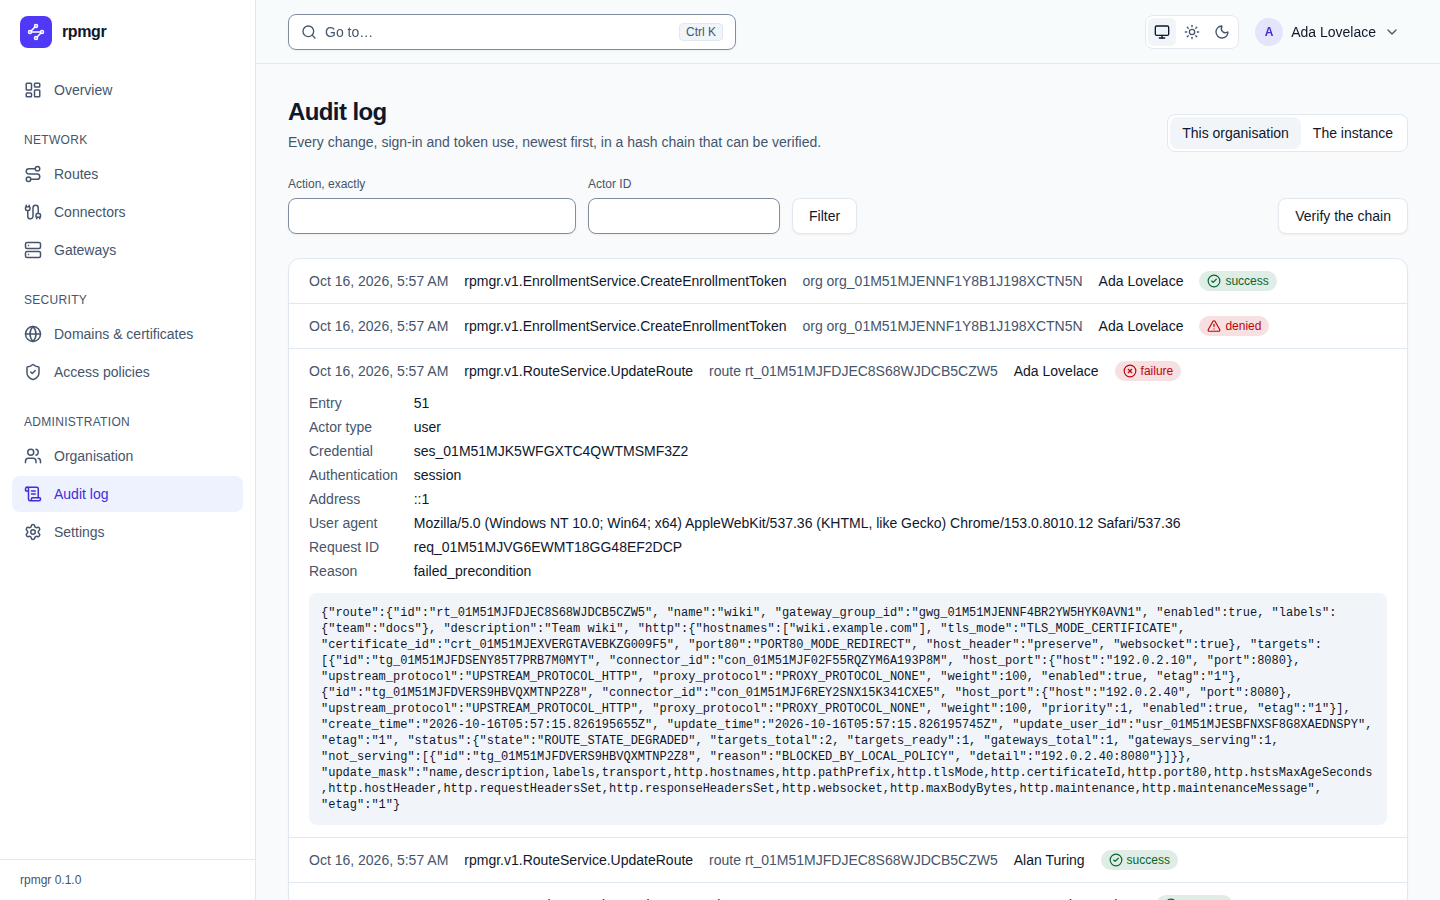
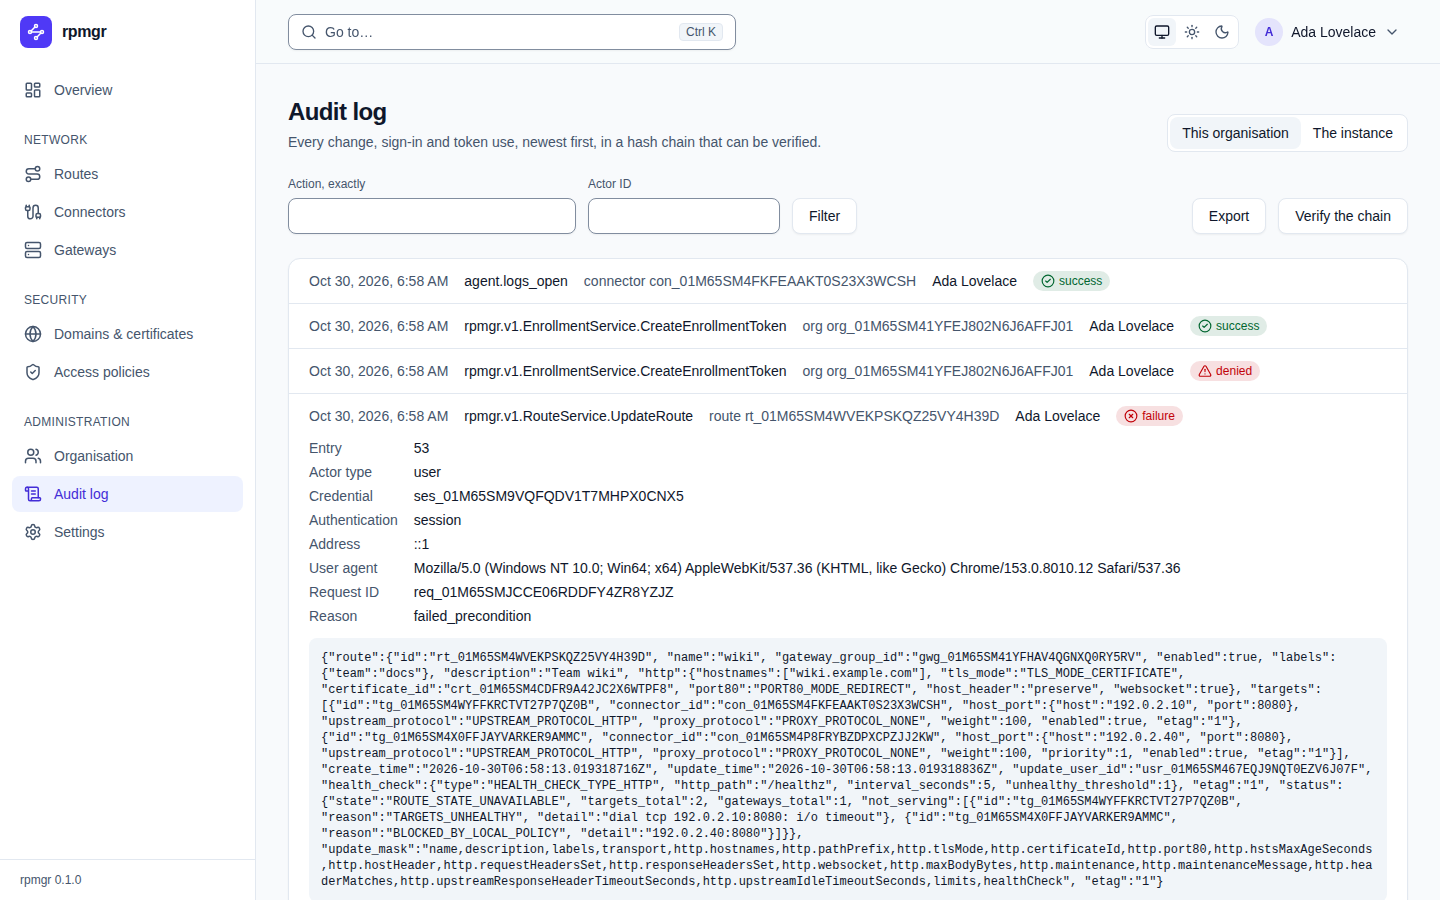
feat(web): add an export button to the audit page
The button exports the shown log after a step-up and saves it as JSON Lines, then names the
verify-export command. Updates docs/09, the guide's audit page and its screenshot.

Changed region(s): [[0.2188, 0.28, 0.9688, 0.9956], [0.8438, 0.2178, 0.875, 0.2489]]

diff --git a/web/src/pages/audit.test.tsx b/web/src/pages/audit.test.tsx
@@ -2,11 +2,12 @@
 
 import { timestampFromDate } from "@bufbuild/protobuf/wkt";
 import { cleanup, fireEvent, screen, waitFor, within } from "@testing-library/react";
-import { afterEach, describe, expect, it } from "vitest";
+import { afterEach, describe, expect, it, vi } from "vitest";
+import { Code } from "@connectrpc/connect";
 import { AuditService, type ListAuditEntriesRequest, type ListInstanceAuditEntriesRequest } from "@/gen/rpmgr/v1/audit_pb";
 import { OrgService } from "@/gen/rpmgr/v1/org_pb";
 import { Theme, UserService } from "@/gen/rpmgr/v1/user_pb";
-import { auth, show } from "@/testing/api";
+import { apiError, auth, show } from "@/testing/api";
 
 afterEach(cleanup);
 
@@ -115,5 +116,78 @@ describe("Audit", () => {
     expect(await screen.findByRole("heading", { name: "Instance audit log" })).toBeTruthy();
     await waitFor(() => expect(inst).toHaveLength(1));
     expect(await screen.findByText("instance.settings")).toBeTruthy();
+  });
+
+  // exportPage is the audit page with an export that asks for a step-up first, or fails.
+  function exportPage(path: string, instanceAdmin: boolean, fail?: Code) {
+    const calls = { org: [] as string[], inst: 0, steppedUp: 0 };
+    let steppedUp = false;
+    const guard = () => {
+      if (fail !== undefined) throw apiError(fail);
+      if (!steppedUp) throw apiError(Code.Unauthenticated, "STEP_UP_REQUIRED");
+    };
+    show(path, auth({ getSession: () => ({ userId: "usr_ada", instanceAdmin, memberships: [{ orgId: "org_1", role: "owner" }] }),
+      stepUp: () => (calls.steppedUp++, steppedUp = true, {}) }), (router) => {
+      router.service(UserService, { getMe: () => ({ user: { id: "usr_ada", theme: Theme.SYSTEM } }) });
+      router.service(OrgService, { listMembers: () => ({ members: [] }) });
+      router.service(AuditService, {
+        listAuditEntries: () => ({ entries: [] }),
+        listInstanceAuditEntries: () => ({ entries: [] }),
+        exportAudit: async function* (req) {
+          calls.org.push(req.orgId);
+          guard();
+          yield { lines: ['{"type":"header"}', '{"type":"entry","seq":1}'] };
+          yield { lines: ['{"type":"entry","seq":2}'] };
+        },
+        exportInstanceAudit: async function* () {
+          calls.inst++;
+          guard();
+          yield { lines: ['{"type":"header"}'] };
+        },
+      });
+    });
+    return calls;
+  }
+
+  // download stubs the browser's file download and returns what was saved.
+  function download() {
+    const saved: { name: string; blob: Blob }[] = [];
+    let blob: Blob | undefined;
+    URL.createObjectURL = (b: Blob | MediaSource) => ((blob = b as Blob), "blob:audit");
+    URL.revokeObjectURL = () => {};
+    const click = vi.spyOn(HTMLAnchorElement.prototype, "click").mockImplementation(function (this: HTMLAnchorElement) {
+      saved.push({ name: this.download, blob: blob! });
+    });
+    return { saved, restore: () => click.mockRestore() };
+  }
+
+  it("exports the chain after a step-up and downloads it as JSON Lines", async () => {
+    const dl = download();
+    const calls = exportPage("/audit", false);
+    fireEvent.click(await screen.findByRole("button", { name: "Export" }));
+    const dialog = within(await screen.findByRole("dialog", { name: "Confirm it is you" }));
+    fireEvent.change(dialog.getByLabelText("Password"), { target: { value: "pw" } });
+    fireEvent.click(dialog.getByRole("button", { name: "Confirm" }));
+    expect((await screen.findByRole("status")).textContent).toMatch(/^Saved audit-org_1\.jsonl\. .*rpmgr audit verify-export/);
+    expect(calls).toEqual({ org: ["org_1", "org_1"], inst: 0, steppedUp: 1 });
+    expect(dl.saved.map((s) => s.name)).toEqual(["audit-org_1.jsonl"]);
+    expect(await dl.saved[0]!.blob.text()).toBe('{"type":"header"}\n{"type":"entry","seq":1}\n{"type":"entry","seq":2}\n');
+    dl.restore();
+  });
+
+  it("exports the instance's chain to the Instance Admin, and saves nothing when the export is refused", async () => {
+    const dl = download();
+    const calls = exportPage("/audit?log=instance", true);
+    fireEvent.click(await screen.findByRole("button", { name: "Export" }));
+    fireEvent.click(within(await screen.findByRole("dialog", { name: "Confirm it is you" })).getByRole("button", { name: "Cancel" }));
+    expect((await screen.findByRole("alert")).textContent).toMatch(/The export failed/);
+    expect(dl.saved).toEqual([]);
+    expect(calls.inst).toBe(1);
+    cleanup();
+    exportPage("/audit", false, Code.PermissionDenied);
+    fireEvent.click(await screen.findByRole("button", { name: "Export" }));
+    expect((await screen.findByRole("alert")).textContent).toMatch(/The export failed/);
+    expect(dl.saved).toEqual([]);
+    dl.restore();
   });
 });

diff --git a/web/src/pages/audit.tsx b/web/src/pages/audit.tsx
@@ -1,6 +1,6 @@
 // SPDX-License-Identifier: Apache-2.0
 
-import { createClient } from "@connectrpc/connect";
+import { ConnectError, createClient } from "@connectrpc/connect";
 import { useMutation, useQuery as useConnectQuery, useTransport } from "@connectrpc/connect-query";
 import { useInfiniteQuery } from "@tanstack/react-query";
 import { getRouteApi, useNavigate } from "@tanstack/react-router";
@@ -18,6 +18,7 @@ import { AuthService } from "@/gen/rpmgr/v1/auth_pb";
 import { OrgService } from "@/gen/rpmgr/v1/org_pb";
 import { when } from "@/lib/format";
 import { useOrg } from "@/session";
+import { useStepUp } from "@/step-up";
 
 const route = getRouteApi("/app/audit");
 
@@ -80,7 +81,10 @@ export function Audit() {
           <label className={label}>{t("audit.actor")}<Input className="w-48 text-foreground" value={filters.actor} onChange={(e) => setFilters({ ...filters, actor: e.target.value })} /></label>
           <Button type="submit" variant="outline">{t("audit.filter")}</Button>
         </form>
-        <Verify key={instance ? "instance" : "org"} orgId={org?.orgId ?? ""} instance={instance} />
+        <div className="flex flex-wrap items-start gap-3">
+          <Export key={`export-${instance ? "instance" : "org"}`} orgId={org?.orgId ?? ""} instance={instance} />
+          <Verify key={instance ? "instance" : "org"} orgId={org?.orgId ?? ""} instance={instance} />
+        </div>
       </div>
       {shown.length > 0 && (
         <ol className="divide-y divide-border rounded-xl border border-border bg-card shadow-xs">
@@ -150,6 +154,51 @@ function Verify({ orgId, instance }: { orgId: string; instance: boolean }) {
             : t("audit.broken", { seq: String(result.brokenAt), problem: result.problem })}</span>
         </p>
       )}
+      {error && <Alert>{error}</Alert>}
+    </div>
+  );
+}
+
+// Export downloads the chain with its proofs as JSON Lines, after a step-up when the API asks for
+// one; `rpmgr audit verify-export` verifies the file offline (docs/04-security.md, "Audit log").
+function Export({ orgId, instance }: { orgId: string; instance: boolean }) {
+  const { t } = useTranslation();
+  const transport = useTransport();
+  const stepUp = useStepUp();
+  const [busy, setBusy] = useState(false);
+  const [file, setFile] = useState("");
+  const [error, setError] = useState("");
+  async function go() {
+    setError("");
+    setFile("");
+    setBusy(true);
+    try {
+      const api = createClient(AuditService, transport);
+      const lines: string[] = [];
+      await stepUp(async () => {
+        lines.length = 0;
+        for await (const part of instance ? api.exportInstanceAudit({}) : api.exportAudit({ orgId })) {
+          lines.push(...part.lines);
+        }
+      });
+      const name = `audit-${instance ? "instance" : orgId}.jsonl`;
+      const url = URL.createObjectURL(new Blob([lines.join("\n"), "\n"], { type: "application/x-ndjson" }));
+      const a = document.createElement("a");
+      a.href = url;
+      a.download = name;
+      a.click();
+      URL.revokeObjectURL(url);
+      setFile(name);
+    } catch (err) {
+      setError(t("audit.exportFailed", { message: ConnectError.from(err).rawMessage }));
+    } finally {
+      setBusy(false);
+    }
+  }
+  return (
+    <div className="grid gap-2 text-sm sm:max-w-md">
+      <Button variant="outline" disabled={busy} onClick={() => void go()}>{t("audit.export")}</Button>
+      {file && <p role="status" className="text-muted-foreground">{t("audit.exported", { file })}</p>}
       {error && <Alert>{error}</Alert>}
     </div>
   );

diff --git a/docs/09-web-ui.md b/docs/09-web-ui.md
@@ -636,8 +636,12 @@ one page, with a section list beside them that jumps to each section
   every checkpoint's signature and, while its entry is kept, that entry's hash. It says whether the
   chain is intact up to which entry, with the last checkpoint, or where it broke and why
   ([04](04-security.md#audit-log)).
-- [R] The export of the information architecture is left out in Phase 1: the API has no export
-  method, and the log is read in pages.
+- **Export** (Phase 2) sits beside "Verify the chain". It exports the log shown, the org's or the
+  instance's, with the step-up the API asks for (the same dialog as elsewhere, U7), and saves the
+  chain as a JSON Lines file with its proofs. Afterwards the page names the file and the
+  `rpmgr audit verify-export` command that verifies it offline. A refused or failed export saves
+  nothing and says why. Who sees the page sees the button: the API decides, with `audit.read` for an
+  org and the Instance Admin for the instance ([04](04-security.md#audit-log)).
 
 ### Settings
 
@@ -868,8 +872,9 @@ one page, with a section list beside them that jumps to each section
   instance webhooks as above; and the private ranges webhook receivers may use.
 - **Org settings**: alert e-mails on or off and the alert types the org gets
   ([D139](14-open-decisions.md#engineering)).
-- **Audit log**: **Export** asks for a step-up and downloads the chain as JSON Lines; the dialog
-  shows the `rpmgr audit verify-export` command with the CA pin to verify it offline.
+- **Audit log**: **Export** asks for a step-up and downloads the chain as JSON Lines; the page then
+  shows the `rpmgr audit verify-export` command to verify it offline, with the root's pin that the
+  Instance Admin reads under Settings → PKI.
 
 ### Enroll connector dialog
 

diff --git a/docs/guide/web-ui/audit.md b/docs/guide/web-ui/audit.md
@@ -46,8 +46,17 @@ checkpoint and when it was made, or `The chain is broken at entry …` with the 
 chain is a sign that entries were changed or removed outside rpmgr
 ([Audit log](../operations/audit-log.md)).
 
+## Export
+
+**Export**, beside **Verify the chain**, saves the log you are looking at, the organisation's or the
+instance's, as a file, `audit-<organisation ID>.jsonl` or `audit-instance.jsonl`. Exporting asks you
+to confirm it is you first, with your password or a code from your authenticator. The file holds
+every entry with the hashes that link them and the signed checkpoints, so that it can be verified
+away from the controller. Afterwards the page names the file and shows the command that verifies it.
+If the export is refused or fails, the page says why and saves nothing. The export is itself an
+entry of the log, `audit.export`.
+
 ## On the command line
 
-The command line has no audit command in this version. The API's `AuditService` lists and
-verifies the logs ([API](../reference/api.md)); exporting the log is not available yet
-([09](../../09-web-ui.md#audit-log)).
+`rpmgr audit export` and `rpmgr audit verify-export` export a log and verify the file offline
+([Audit log](../operations/audit-log.md#export-a-chain-with-its-proofs), [CLI](../reference/cli.md)).
